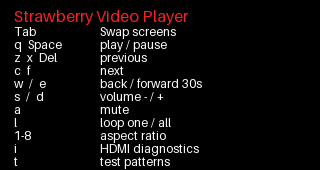
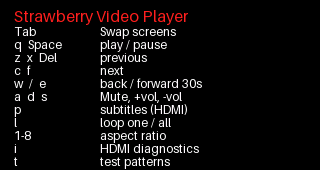
2.7.14: USB drives, subtitles on HDMI (p), help page update

Changed region(s): [[0.3125, 0.5294, 0.5938, 0.6765], [0.0312, 0.5294, 0.1562, 0.6176], [0.0312, 0.6176, 0.0625, 0.6765]]

diff --git a/README.md b/README.md
@@ -25,11 +25,16 @@ Runs on the CardputerZero (Raspberry Pi CM0, Debian 13 arm64), with no network n
 | s / d | volume down / up |
 | a | mute |
 | l | loop one / loop all |
+| p | subtitles on HDMI: off, then each embedded track (the LCD note names the language) |
 | 1-8 | display aspect ratio: 16:9, 16:10, 4:3, 5:4, 1:1, 2.35:1, 2.21:1, 21:9 |
 | h | help (on the LCD while HDMI plays) |
 | t | test patterns on HDMI on / off; z x c f choose the pattern: color bars, gray steps, geometry, convergence, audio + sync |
 | i | HDMI diagnostics on the LCD: display name, mode, color range, audio, link, CEC address |
 | Esc | quit |
+
+## USB drives
+
+Plug in a USB drive (FAT32, exFAT, NTFS or ext4) and its videos play: from a folder named `Videos` on the drive, or from the top level if there is no such folder. Take the drive out and the player goes back to `~/Videos`. The drive is mounted read-only, and nothing is written to it or copied to the card. With no drive and no videos in `~/Videos`, the LCD says so.
 
 ## Smooth HDMI
 
@@ -37,8 +42,8 @@ Nothing to set up on the stock CardputerZero image. For full-screen 1080p the pl
 
 ## Build and install
 
-    dpkg-deb --build --root-owner-group . strawberry-video-player_2.7.11_all.deb
-    sudo dpkg -i strawberry-video-player_2.7.11_all.deb
+    dpkg-deb --build --root-owner-group . strawberry-video-player_2.7.14_all.deb
+    sudo dpkg -i strawberry-video-player_2.7.14_all.deb
 
 Run it from the launcher, or `strawberry-video-player [DIR|FILE] [--start MM:SS] [--output lcd|hdmi]`.
 
